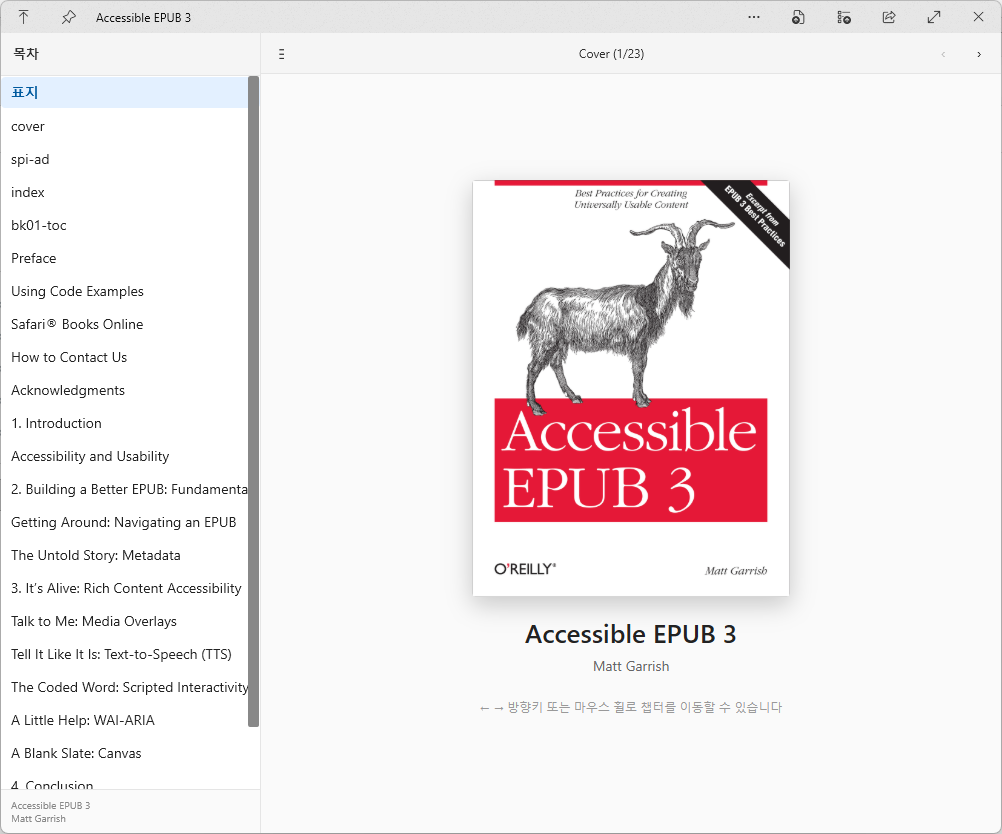
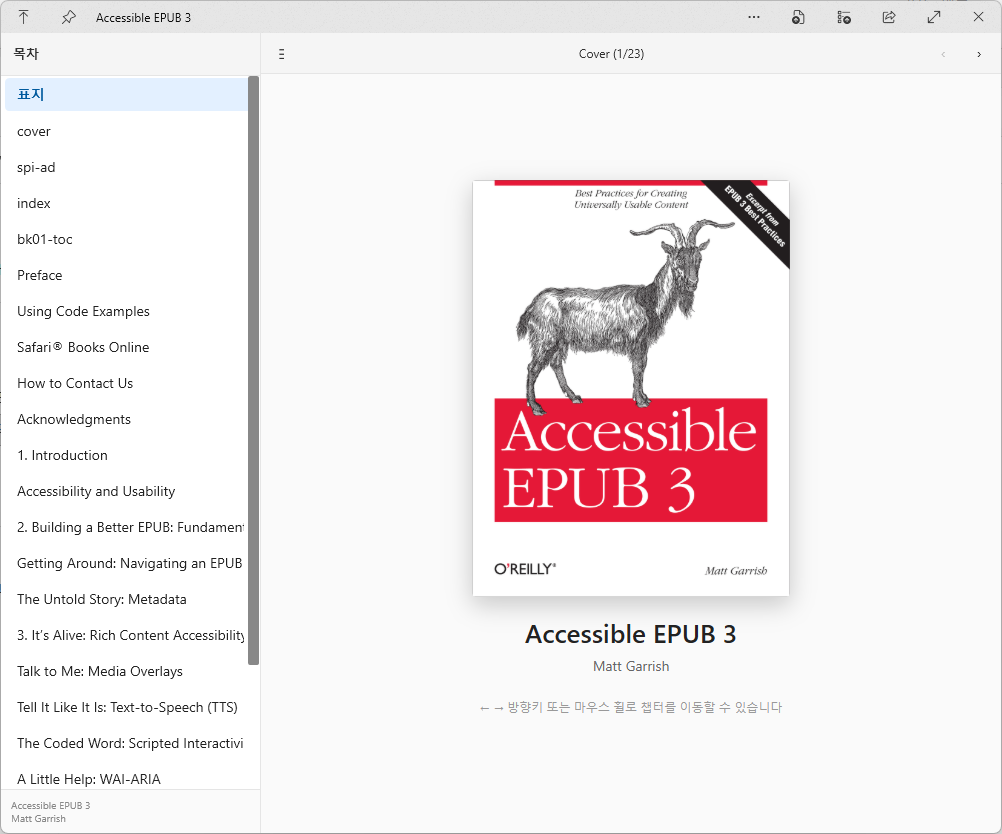
feat: v2 - 본문 좌우 여백 주입 및 사이드바 여백 개선
- 본문 HTML에 20/24px 패딩 + 중앙 정렬(max-width 780) 주입 (InjectReadingStyle)
- 모바일 14/16px 대응, 이미지 반응형 처리
- 사이드바 TocItem Padding 12,7 / Margin 4,1.5 / ListBox 4,6 패딩

Changed region(s): [[0.0, 0.6235, 0.2784, 0.9664], [0.0, 0.1871, 0.2475, 0.5923], [0.0, 0.0935, 0.2475, 0.1559]]

diff --git a/QuickLook.Plugin.EpubViewer2/EpubViewerPanel.xaml b/QuickLook.Plugin.EpubViewer2/EpubViewerPanel.xaml
@@ -32,8 +32,8 @@
             </Setter>
         </Style>
         <Style x:Key="TocItemStyle" TargetType="ListBoxItem">
-            <Setter Property="Padding" Value="10,6"/>
-            <Setter Property="Margin" Value="0,1"/>
+            <Setter Property="Padding" Value="12,7"/>
+            <Setter Property="Margin" Value="4,1.5"/>
             <Setter Property="Foreground" Value="#222"/>
             <Setter Property="Background" Value="Transparent"/>
             <Setter Property="Cursor" Value="Hand"/>
@@ -87,7 +87,7 @@
                                     Content="✕" FontSize="11" Foreground="#888" ToolTip="사이드바 닫기"/>
                         </Grid>
                     </Border>
-                    <ListBox x:Name="tocListBox" Grid.Row="1" Background="Transparent" BorderThickness="0"
+                    <ListBox x:Name="tocListBox" Grid.Row="1" Background="Transparent" BorderThickness="0" Padding="4,6"
                              ItemContainerStyle="{StaticResource TocItemStyle}"
                              ScrollViewer.HorizontalScrollBarVisibility="Disabled"
                              ScrollViewer.VerticalScrollBarVisibility="Auto"/>

diff --git a/QuickLook.Plugin.EpubViewer2/EpubViewerPanel.xaml.cs b/QuickLook.Plugin.EpubViewer2/EpubViewerPanel.xaml.cs
@@ -717,14 +717,10 @@ window.addEventListener('click', function(e){
                 return;
             }
 
-            // Html 파일
+            // Html 파일 - 가독성을 위한 좌우 여백 주입
             if (_book.Content.Html.TryGetLocalFileByFilePath(internalPath, out var htmlFile))
             {
-                // 원본 html 그대로 반환 (필요 시 주입 가능)
-                // 다크모드 배경 보정: html에 <body>가 있으면 스타일 주입
-                string content = htmlFile.Content;
-                // 간단한 다크모드 대응: QuickLook 다크 테마면 배경 어둡게 (선택)
-                // 여기서는 원본 유지
+                string content = InjectReadingStyle(htmlFile.Content);
                 var bytes = Encoding.UTF8.GetBytes(content);
                 var stream = new MemoryStream(bytes);
                 args.Response = _webView.CoreWebView2.Environment.CreateWebResourceResponse(
@@ -777,8 +773,9 @@ window.addEventListener('click', function(e){
                 }
                 else if (anyFile is EpubLocalTextContentFile textFile)
                 {
-                    var bytes = Encoding.UTF8.GetBytes(textFile.Content);
                     var mime = GetMimeType(Path.GetExtension(internalPath));
+                    string textContent = mime == "text/html" ? InjectReadingStyle(textFile.Content) : textFile.Content;
+                    var bytes = Encoding.UTF8.GetBytes(textContent);
                     var stream = new MemoryStream(bytes);
                     args.Response = _webView.CoreWebView2.Environment.CreateWebResourceResponse(
                         stream, 200, "OK", $"Content-Type: {mime}; charset=utf-8");
@@ -799,7 +796,10 @@ window.addEventListener('click', function(e){
             }
             if (matchingFile is EpubLocalTextContentFile matchingTextFile)
             {
-                var stream = new MemoryStream(Encoding.UTF8.GetBytes(matchingTextFile.Content));
+                string matchingContent = matchingTextFile.Content;
+                if (GetMimeType(Path.GetExtension(internalPath)) == "text/html")
+                    matchingContent = InjectReadingStyle(matchingContent);
+                var stream = new MemoryStream(Encoding.UTF8.GetBytes(matchingContent));
                 string mime = GetMimeType(Path.GetExtension(internalPath));
                 string headers = mime == "text/html" ? GetHtmlResponseHeaders() : $"Content-Type: {mime}; charset=utf-8";
                 args.Response = _webView.CoreWebView2.Environment.CreateWebResourceResponse(stream, 200, "OK", headers);
@@ -824,6 +824,41 @@ window.addEventListener('click', function(e){
         return $"Content-Type: text/html; charset=utf-8\r\n" +
                $"Content-Security-Policy: {contentSecurityPolicy}\r\n" +
                "X-Content-Type-Options: nosniff";
+    }
+
+    private static string InjectReadingStyle(string html)
+    {
+        if (string.IsNullOrEmpty(html))
+            return html;
+
+        // 이미 주입된 경우 중복 방지
+        if (html.IndexOf("quicklook-epub-margin", StringComparison.OrdinalIgnoreCase) >= 0)
+            return html;
+
+        const string style = "<style id=\"quicklook-epub-margin\">html{background:#fff}body{padding:20px 24px !important;max-width:780px !important;margin:0 auto !important;box-sizing:border-box !important;overflow-wrap:break-word !important;word-break:break-word !important}img,svg,video{max-width:100% !important;height:auto !important}pre{white-space:pre-wrap !important;word-break:break-word !important}@media(max-width:600px){body{padding:14px 16px !important}}</style>";
+
+        int idx = html.IndexOf("</head>", StringComparison.OrdinalIgnoreCase);
+        if (idx >= 0)
+            return html.Insert(idx, style);
+
+        idx = html.IndexOf("<head", StringComparison.OrdinalIgnoreCase);
+        if (idx >= 0)
+        {
+            int end = html.IndexOf('>', idx);
+            if (end >= 0)
+                return html.Insert(end + 1, style);
+        }
+
+        idx = html.IndexOf("<html", StringComparison.OrdinalIgnoreCase);
+        if (idx >= 0)
+        {
+            int end = html.IndexOf('>', idx);
+            if (end >= 0)
+                return html.Insert(end + 1, "<head>" + style + "</head>");
+        }
+
+        // head/html 태그가 없는 비정형 문서
+        return style + html;
     }
 
     private string GenerateCoverHtml()

diff --git a/QuickLook.Plugin.EpubViewer2/GitVersion.cs b/QuickLook.Plugin.EpubViewer2/GitVersion.cs
@@ -1,7 +1,7 @@
-// This file is generated by Scripts/update-version.ps1.
+// This file is generated by Scripts/update-version.ps1.
 
 using System.Reflection;
 
-[assembly: AssemblyVersion("1.0.0.0")]
-[assembly: AssemblyFileVersion("1.0.0.0")]
-[assembly: AssemblyInformationalVersion("1")]
+[assembly: AssemblyVersion("2.0.0.0")]
+[assembly: AssemblyFileVersion("2.0.0.0")]
+[assembly: AssemblyInformationalVersion("2+v1-3-gd8099fa")]
